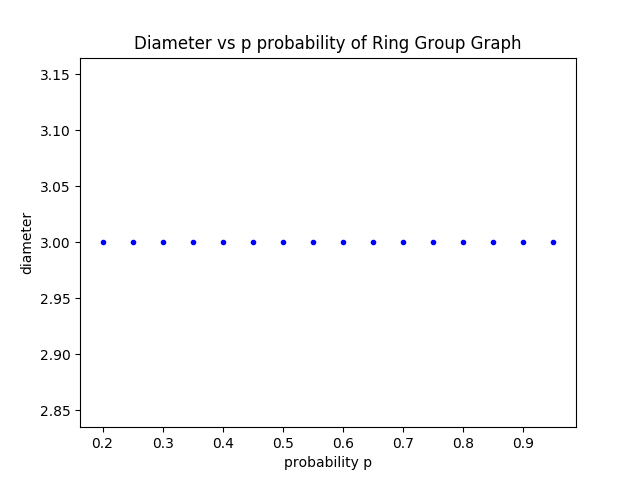
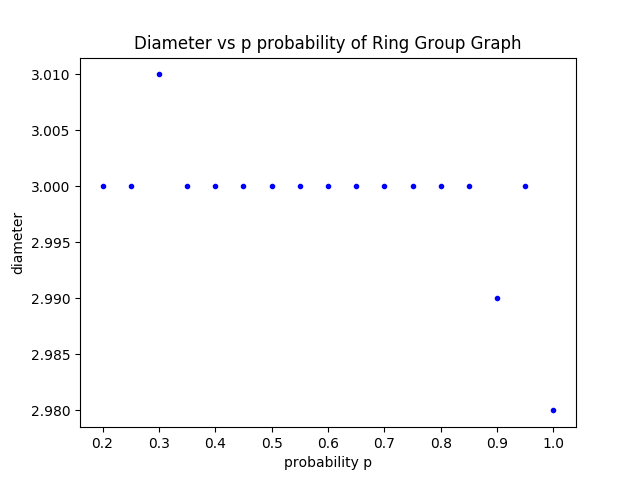
p range includes 1 now

diff --git a/q1-ring-group-graphs.py b/q1-ring-group-graphs.py
@@ -148,7 +148,7 @@ def average_ring_group_graph_diameter(t,m,k,p,q):
 
 def make_p_diameter(t,m,k,q):
     p_diameter = {}
-    for i in range(5, int(round(100 - q*100)), 5):
+    for i in range(5, int(round(100 - q*100)) + 5, 5):
         p = round(q + i / 100, 2)
         p_diameter[p] = average_ring_group_graph_diameter(t,m,k,p,q)
         print(p,p_diameter[p])
@@ -186,8 +186,8 @@ def create_diameter_p_plot(p_diameter, plot_file_name, plot_name):
 #     create_degree_distribution_plot(kGreater, 'q1/' + str(k) + '-' + str(m) + '-' + str(p) + '-' + str(q), 'Ring Group Graph')
 
 
-m = 50
-k = 5
+m = 10
+k = 40
 q = 0.15
 
 mGreater = make_p_diameter(100, m, k, q)
